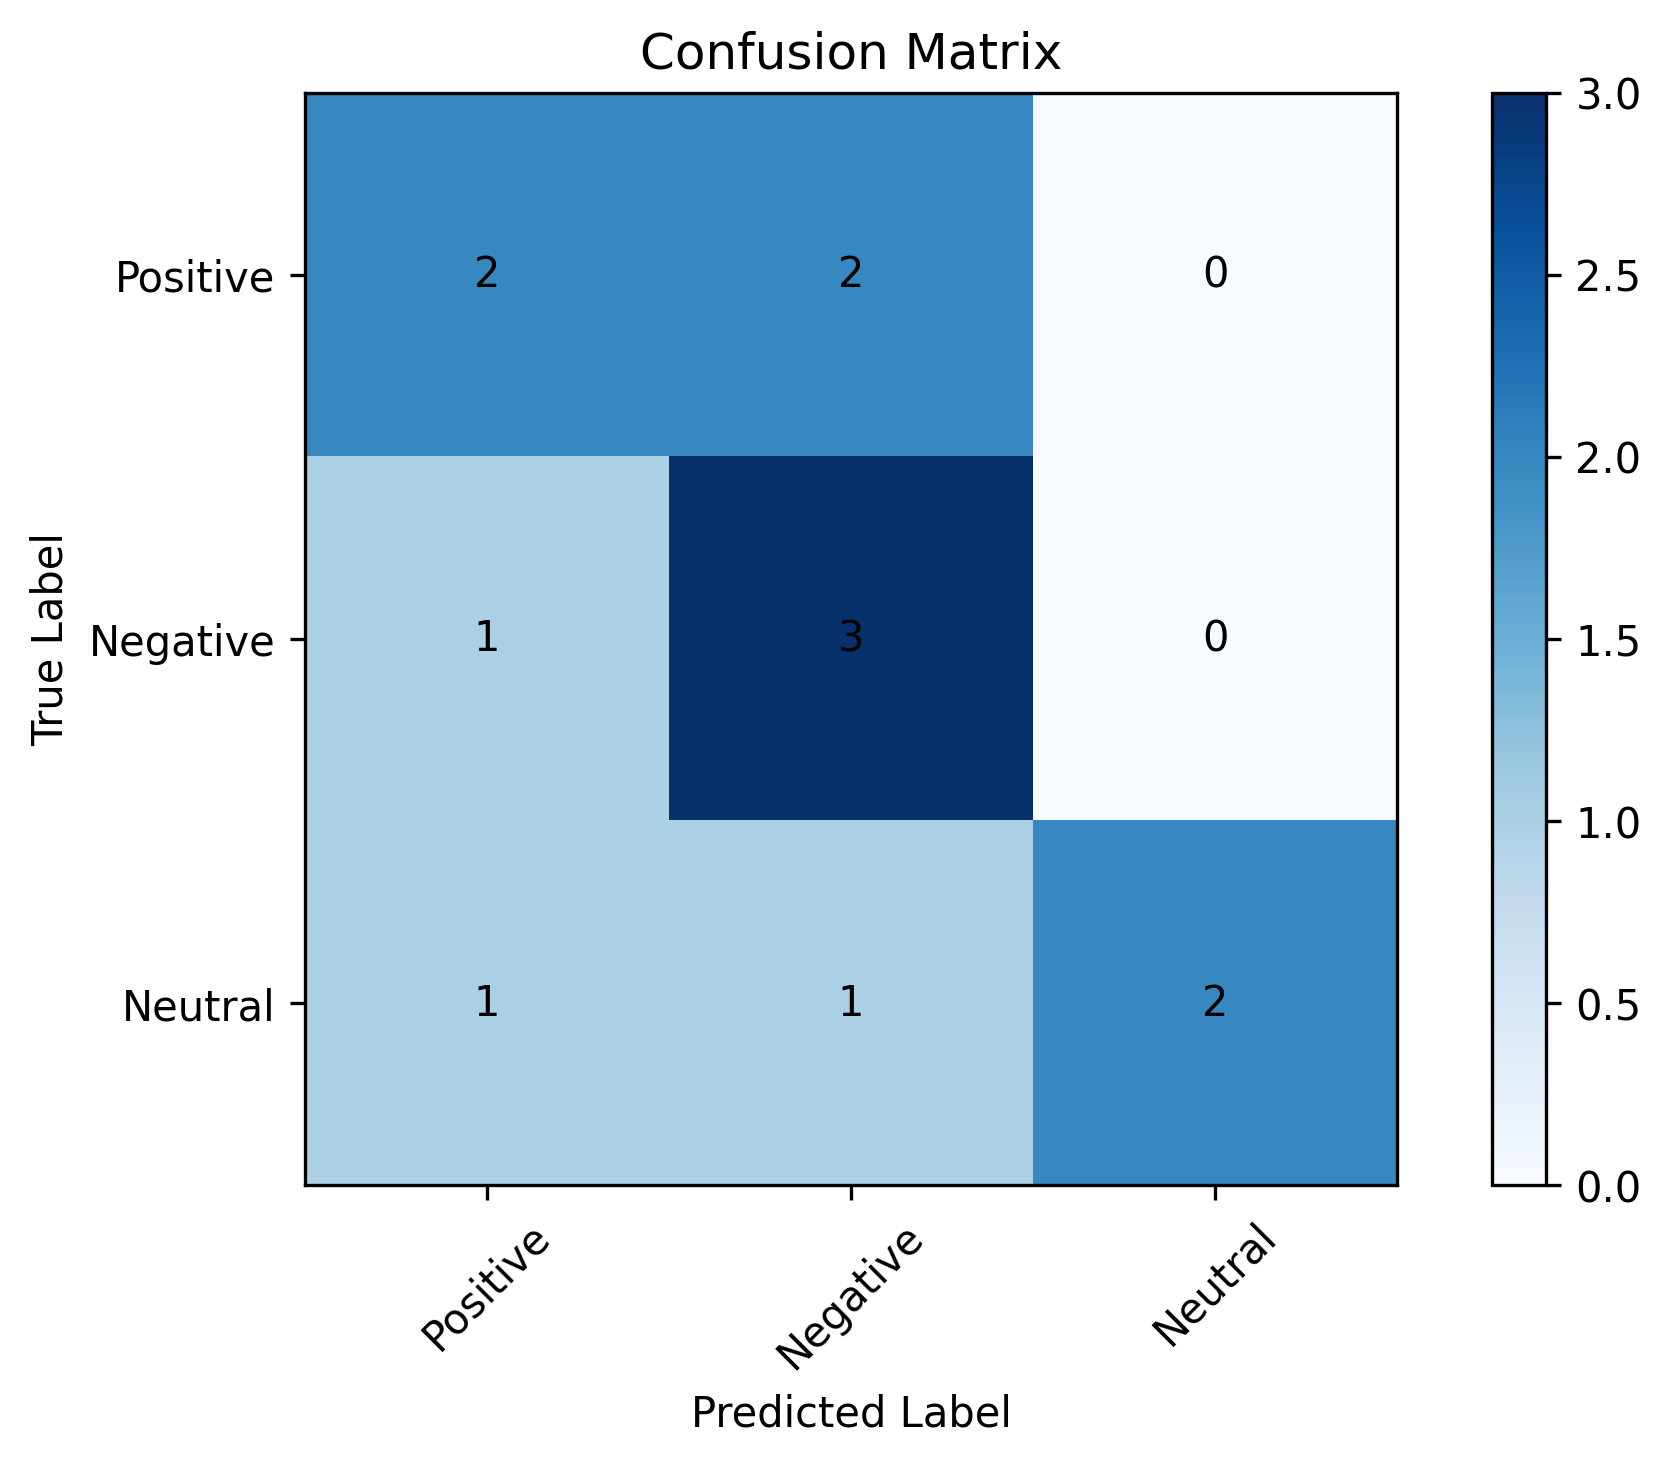
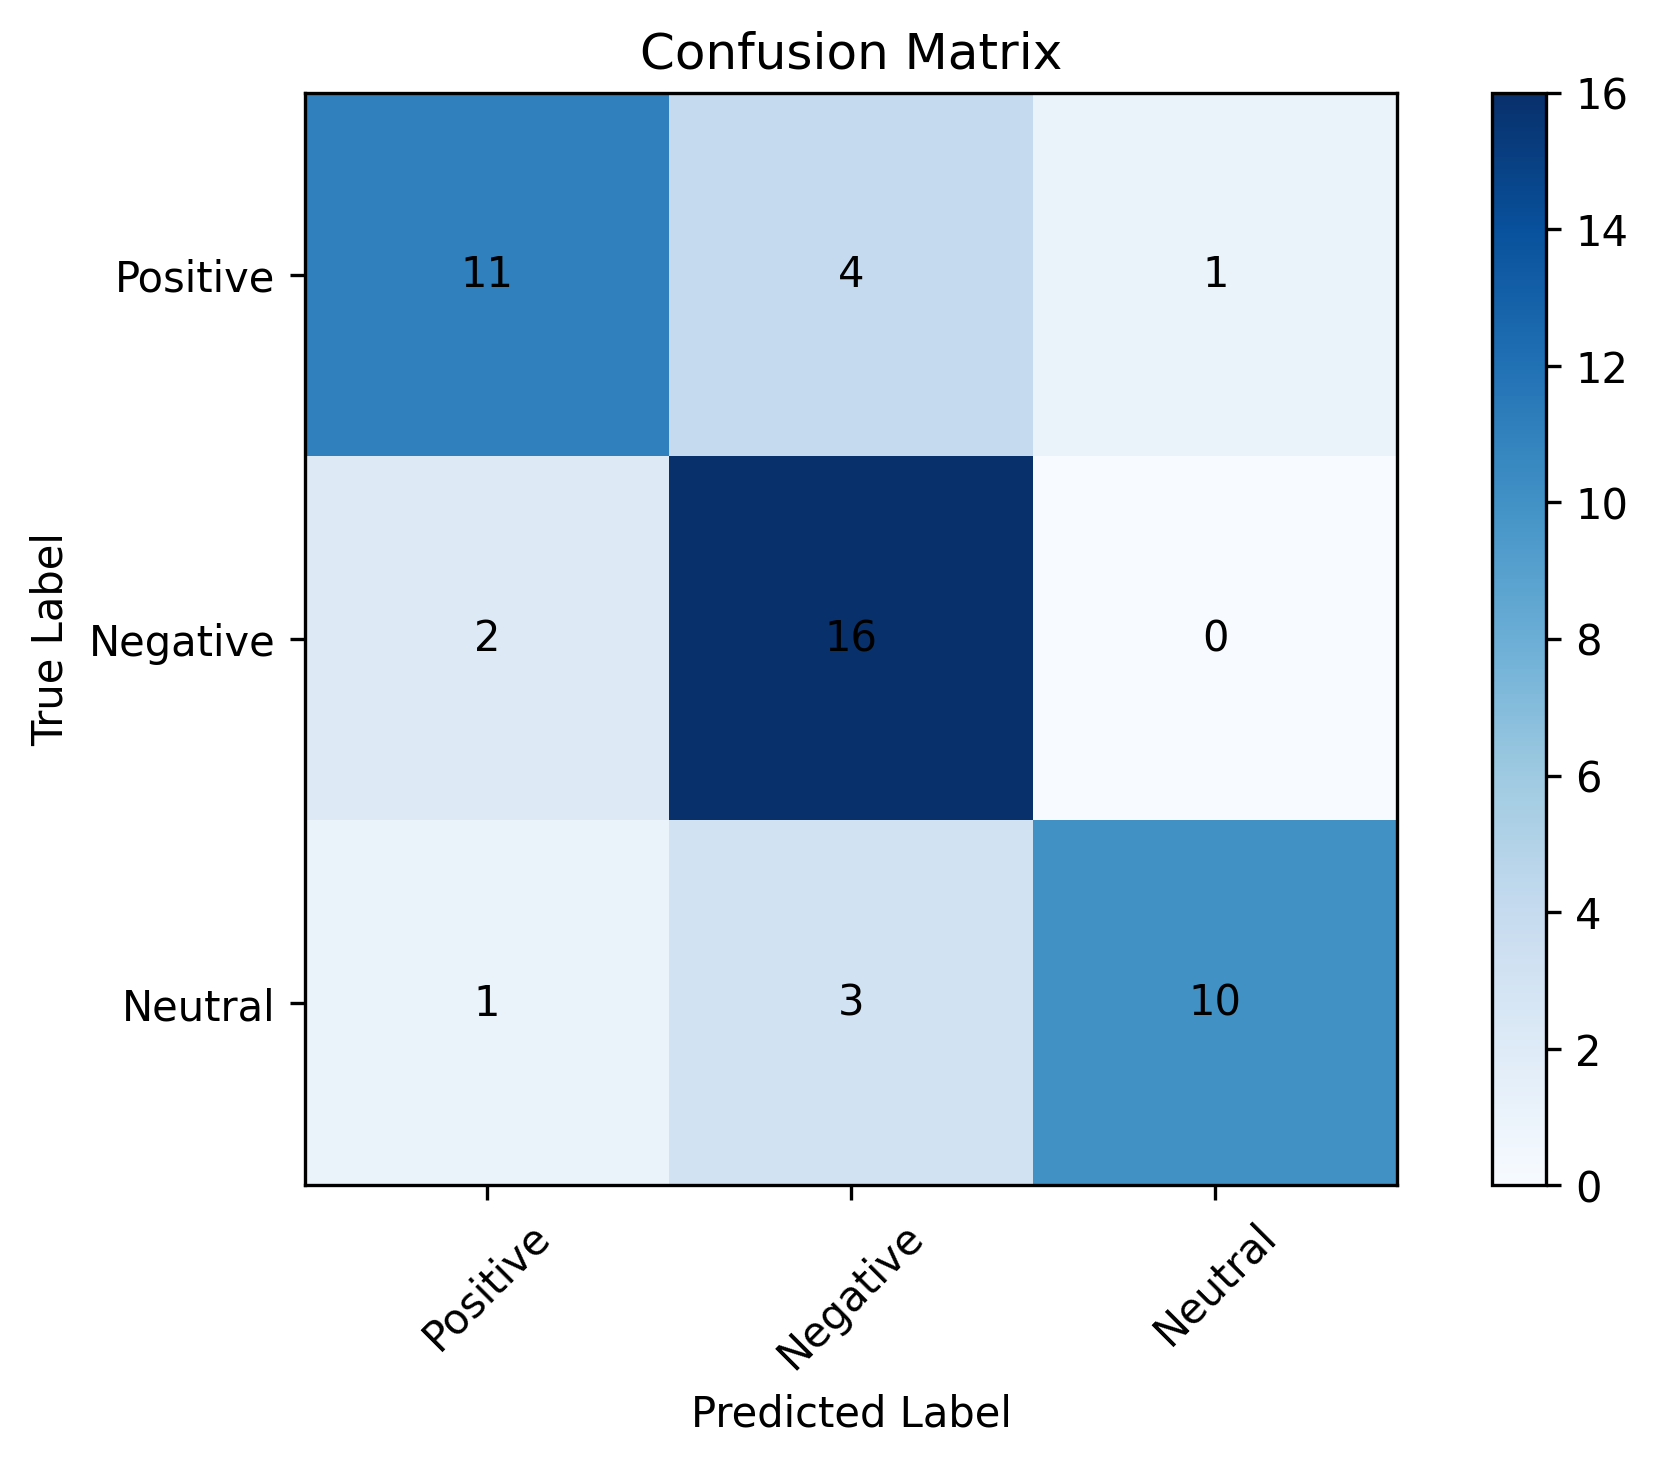
final changes

diff --git a/opinion-mining-project/utils.py b/opinion-mining-project/utils.py
@@ -30,6 +30,7 @@ def get_stop_words() -> set[str]:
     try:
         _STOP_WORDS = set(stopwords.words("english"))
     except LookupError:
+        # Custom stop words that exclude negation words important for sentiment
         _STOP_WORDS = {
             "a",
             "an",
@@ -44,10 +45,7 @@ def get_stop_words() -> set[str]:
             "if",
             "in",
             "into",
-            "is",
             "it",
-            "no",
-            "not",
             "of",
             "on",
             "or",
@@ -61,7 +59,6 @@ def get_stop_words() -> set[str]:
             "they",
             "this",
             "to",
-            "was",
             "will",
             "with",
             "you",

diff --git a/opinion-mining-project/main.py b/opinion-mining-project/main.py
@@ -46,11 +46,19 @@ def train_model(data: pd.DataFrame):
         stratify=labels,
     )
 
-    vectorizer = TfidfVectorizer()
+    # Better TF-IDF parameters for sentiment analysis
+    vectorizer = TfidfVectorizer(
+        max_features=1000,
+        ngram_range=(1, 2),
+        min_df=1,
+        max_df=0.95,
+        sublinear_tf=True,
+    )
     x_train_tfidf = vectorizer.fit_transform(x_train)
     x_test_tfidf = vectorizer.transform(x_test)
 
-    model = LogisticRegression(max_iter=1000)
+    # Better model parameters
+    model = LogisticRegression(max_iter=1000, C=1.0, solver='liblinear')
     model.fit(x_train_tfidf, y_train)
 
     y_pred = model.predict(x_test_tfidf)
